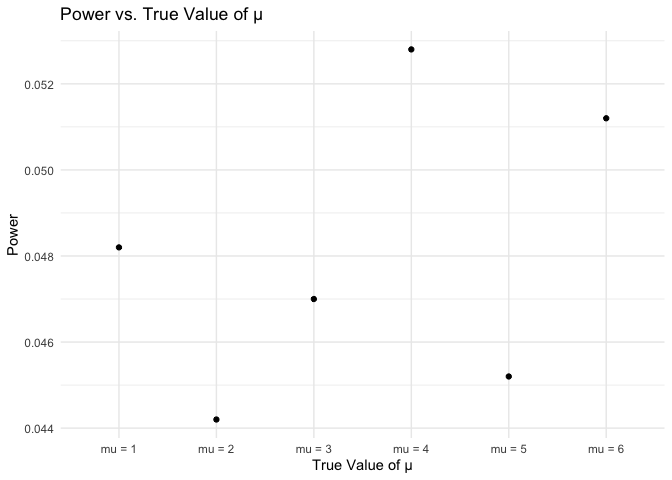
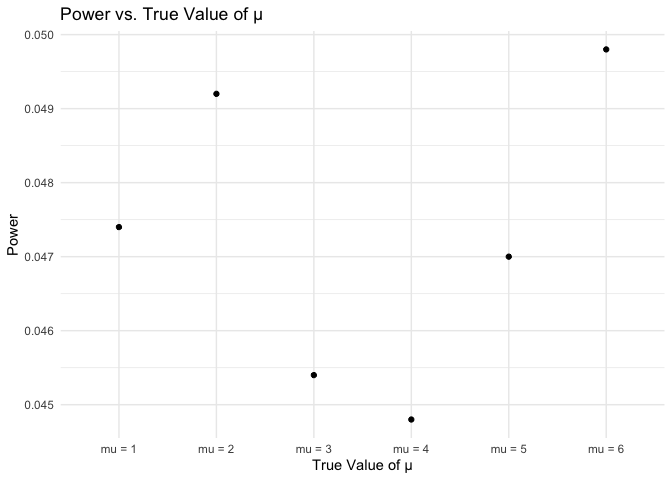
added some comments for the plot

diff --git a/p8105_hw5_jy3360.md b/p8105_hw5_jy3360.md
@@ -24,6 +24,8 @@ homicide_data <- read_csv("homicide-data.csv")
     ## ℹ Use `spec()` to retrieve the full column specification for this data.
     ## ℹ Specify the column types or set `show_col_types = FALSE` to quiet this message.
 
+The raw data includes 52179 observations and 12 variables.
+
 ``` r
 # create city_state variable and summarize within cities
 homicides_summary <- 
@@ -34,11 +36,13 @@ homicides_summary <-
     total_homicides = n(),
     total_unsolved_homicides = sum(disposition %in% c("Closed without arrest", 
                                                       "Open/No arrest"))
-  )
+  ) %>%
+  filter(total_unsolved_homicides != 0)
+
 homicides_summary
 ```
 
-    ## # A tibble: 51 × 3
+    ## # A tibble: 50 × 3
     ##    city_state      total_homicides total_unsolved_homicides
     ##    <chr>                     <int>                    <int>
     ##  1 Albuquerque, NM             378                      146
@@ -51,7 +55,7 @@ homicides_summary
     ##  8 Charlotte, NC               687                      206
     ##  9 Chicago, IL                5535                     4073
     ## 10 Cincinnati, OH              694                      309
-    ## # ℹ 41 more rows
+    ## # ℹ 40 more rows
 
 For the city of Baltimore, MD, use the prop.test function to estimate
 the proportion of homicides that are unsolved; save the output of
@@ -70,15 +74,16 @@ baltimore_total <- pull(baltimore_data, total_homicides)
 
 baltimore_test <- prop.test(baltimore_unsolved, baltimore_total)
 
-broom::tidy(baltimore_test)
+broom::tidy(baltimore_test) %>%
+  select(estimate, conf.low, conf.high)
 ```
 
-    ## # A tibble: 1 × 8
-    ##   estimate statistic  p.value parameter conf.low conf.high method    alternative
-    ##      <dbl>     <dbl>    <dbl>     <int>    <dbl>     <dbl> <chr>     <chr>      
-    ## 1    0.646      239. 6.46e-54         1    0.628     0.663 1-sample… two.sided
+    ## # A tibble: 1 × 3
+    ##   estimate conf.low conf.high
+    ##      <dbl>    <dbl>     <dbl>
+    ## 1    0.646    0.628     0.663
 
-Now run prop.test for each of the cities in your dataset, and extract
+Now run `prop.test` for each of the cities in your dataset, and extract
 both the proportion of unsolved homicides and the confidence interval
 for each. Do this within a “tidy” pipeline, making use of purrr::map,
 purrr::map2, list columns and unnest as necessary to create a tidy
@@ -97,13 +102,6 @@ city_estimates <- homicides_summary %>%
   select(city_state, estimate, conf.low, conf.high) 
 ```
 
-    ## Warning: There was 1 warning in `summarize()`.
-    ## ℹ In argument: `prop_test = list(prop.test(total_unsolved_homicides,
-    ##   total_homicides))`.
-    ## ℹ In group 49: `city_state = "Tulsa, AL"`.
-    ## Caused by warning in `prop.test()`:
-    ## ! Chi-squared approximation may be incorrect
-
 Create a plot that shows the estimates and CIs for each city – check out
 geom_errorbar for a way to add error bars based on the upper and lower
 limits. Organize cities according to the proportion of unsolved
@@ -118,7 +116,7 @@ ggplot(city_estimates, aes(x = reorder(city_state, estimate), y = estimate)) +
   labs(x = "City", y = "Proportion of Total Unsolved Homicides")
 ```
 
-![](p8105_hw5_jy3360_files/figure-gfm/unnamed-chunk-4-1.png)<!-- -->
+![](p8105_hw5_jy3360_files/figure-gfm/unnamed-chunk-5-1.png)<!-- -->
 
 # Problem 2
 
@@ -150,21 +148,29 @@ tidy_data <- files_df %>%
                names_prefix = "week_",
                names_to = "week", 
                values_to = "observation") %>%
-  mutate(week = as.numeric(week))
+  mutate(week = as.numeric(week),
+         subject_id = as.factor(subject_id))
 ```
 
 Make a spaghetti plot showing observations on each subject over time,
 and comment on differences between groups.
 
 ``` r
-ggplot(tidy_data, aes(x = week, y = observation, group = subject_id, color = arm)) +
+ggplot(tidy_data, aes(x = week, y = observation, group = subject_id, color = subject_id)) +
   geom_line() +
-  theme_minimal() +
-  labs(title = "Observations over Time by Subject", x = "Time (Weeks)", y = "Observation")
+  geom_point() +
+  labs(title = "Observations over Time by Subject", x = "Time (Weeks)", y = "Observation") +
+  facet_grid(~ arm)
 ```
 
-![](p8105_hw5_jy3360_files/figure-gfm/unnamed-chunk-6-1.png)<!-- -->
+![](p8105_hw5_jy3360_files/figure-gfm/unnamed-chunk-7-1.png)<!-- -->
 Comment:
+
+- The observations of the experimental group are generally higher than
+  that the control group.
+- We can also see that the observations of experimental group has an
+  increasing trend over time, but the observations of control group
+  remain relatively stable over time.
 
 # Problem 3
 
@@ -206,12 +212,12 @@ head(simulation_results)
     ## # A tibble: 6 × 2
     ##   estimate p.value
     ##      <dbl>   <dbl>
-    ## 1   -0.228   0.814
-    ## 2   -0.215   0.838
-    ## 3   -1.06    0.281
-    ## 4   -1.59    0.106
-    ## 5   -0.278   0.757
-    ## 6    0.793   0.431
+    ## 1   -0.752  0.389 
+    ## 2   -1.63   0.0781
+    ## 3    0.502  0.613 
+    ## 4    0.816  0.477 
+    ## 5    0.289  0.766 
+    ## 6   -0.398  0.649
 
 Repeat the above for $\mu$ = {1,2,3,4,5,6}, and complete the following:
 
@@ -252,16 +258,16 @@ results %>%
     ## # A tibble: 30,000 × 3
     ##       mu estimate p.value
     ##    <dbl>    <dbl>   <dbl>
-    ##  1     1   0.938    0.936
-    ##  2     1   0.531    0.561
-    ##  3     1  -0.190    0.235
-    ##  4     1   0.438    0.565
-    ##  5     1   1.12     0.899
-    ##  6     1  -0.0604   0.237
-    ##  7     1   1.18     0.863
-    ##  8     1   1.46     0.655
-    ##  9     1   2.08     0.234
-    ## 10     1   1.39     0.683
+    ##  1     1   1.66     0.404
+    ##  2     1  -0.0640   0.186
+    ##  3     1   0.678    0.733
+    ##  4     1   0.938    0.934
+    ##  5     1   1.50     0.503
+    ##  6     1   1.48     0.632
+    ##  7     1   1.96     0.280
+    ##  8     1   0.659    0.618
+    ##  9     1   0.155    0.295
+    ## 10     1   1.42     0.694
     ## # ℹ 29,990 more rows
 
 ``` r
@@ -288,7 +294,7 @@ power_results %>%
     ## `geom_line()`: Each group consists of only one observation.
     ## ℹ Do you need to adjust the group aesthetic?
 
-![](p8105_hw5_jy3360_files/figure-gfm/unnamed-chunk-8-1.png)<!-- -->
+![](p8105_hw5_jy3360_files/figure-gfm/unnamed-chunk-9-1.png)<!-- -->
 
 ``` r
 power_results %>%
@@ -307,4 +313,4 @@ power_results %>%
     ## `geom_line()`: Each group consists of only one observation.
     ## ℹ Do you need to adjust the group aesthetic?
 
-![](p8105_hw5_jy3360_files/figure-gfm/unnamed-chunk-8-2.png)<!-- -->
+![](p8105_hw5_jy3360_files/figure-gfm/unnamed-chunk-9-2.png)<!-- -->
